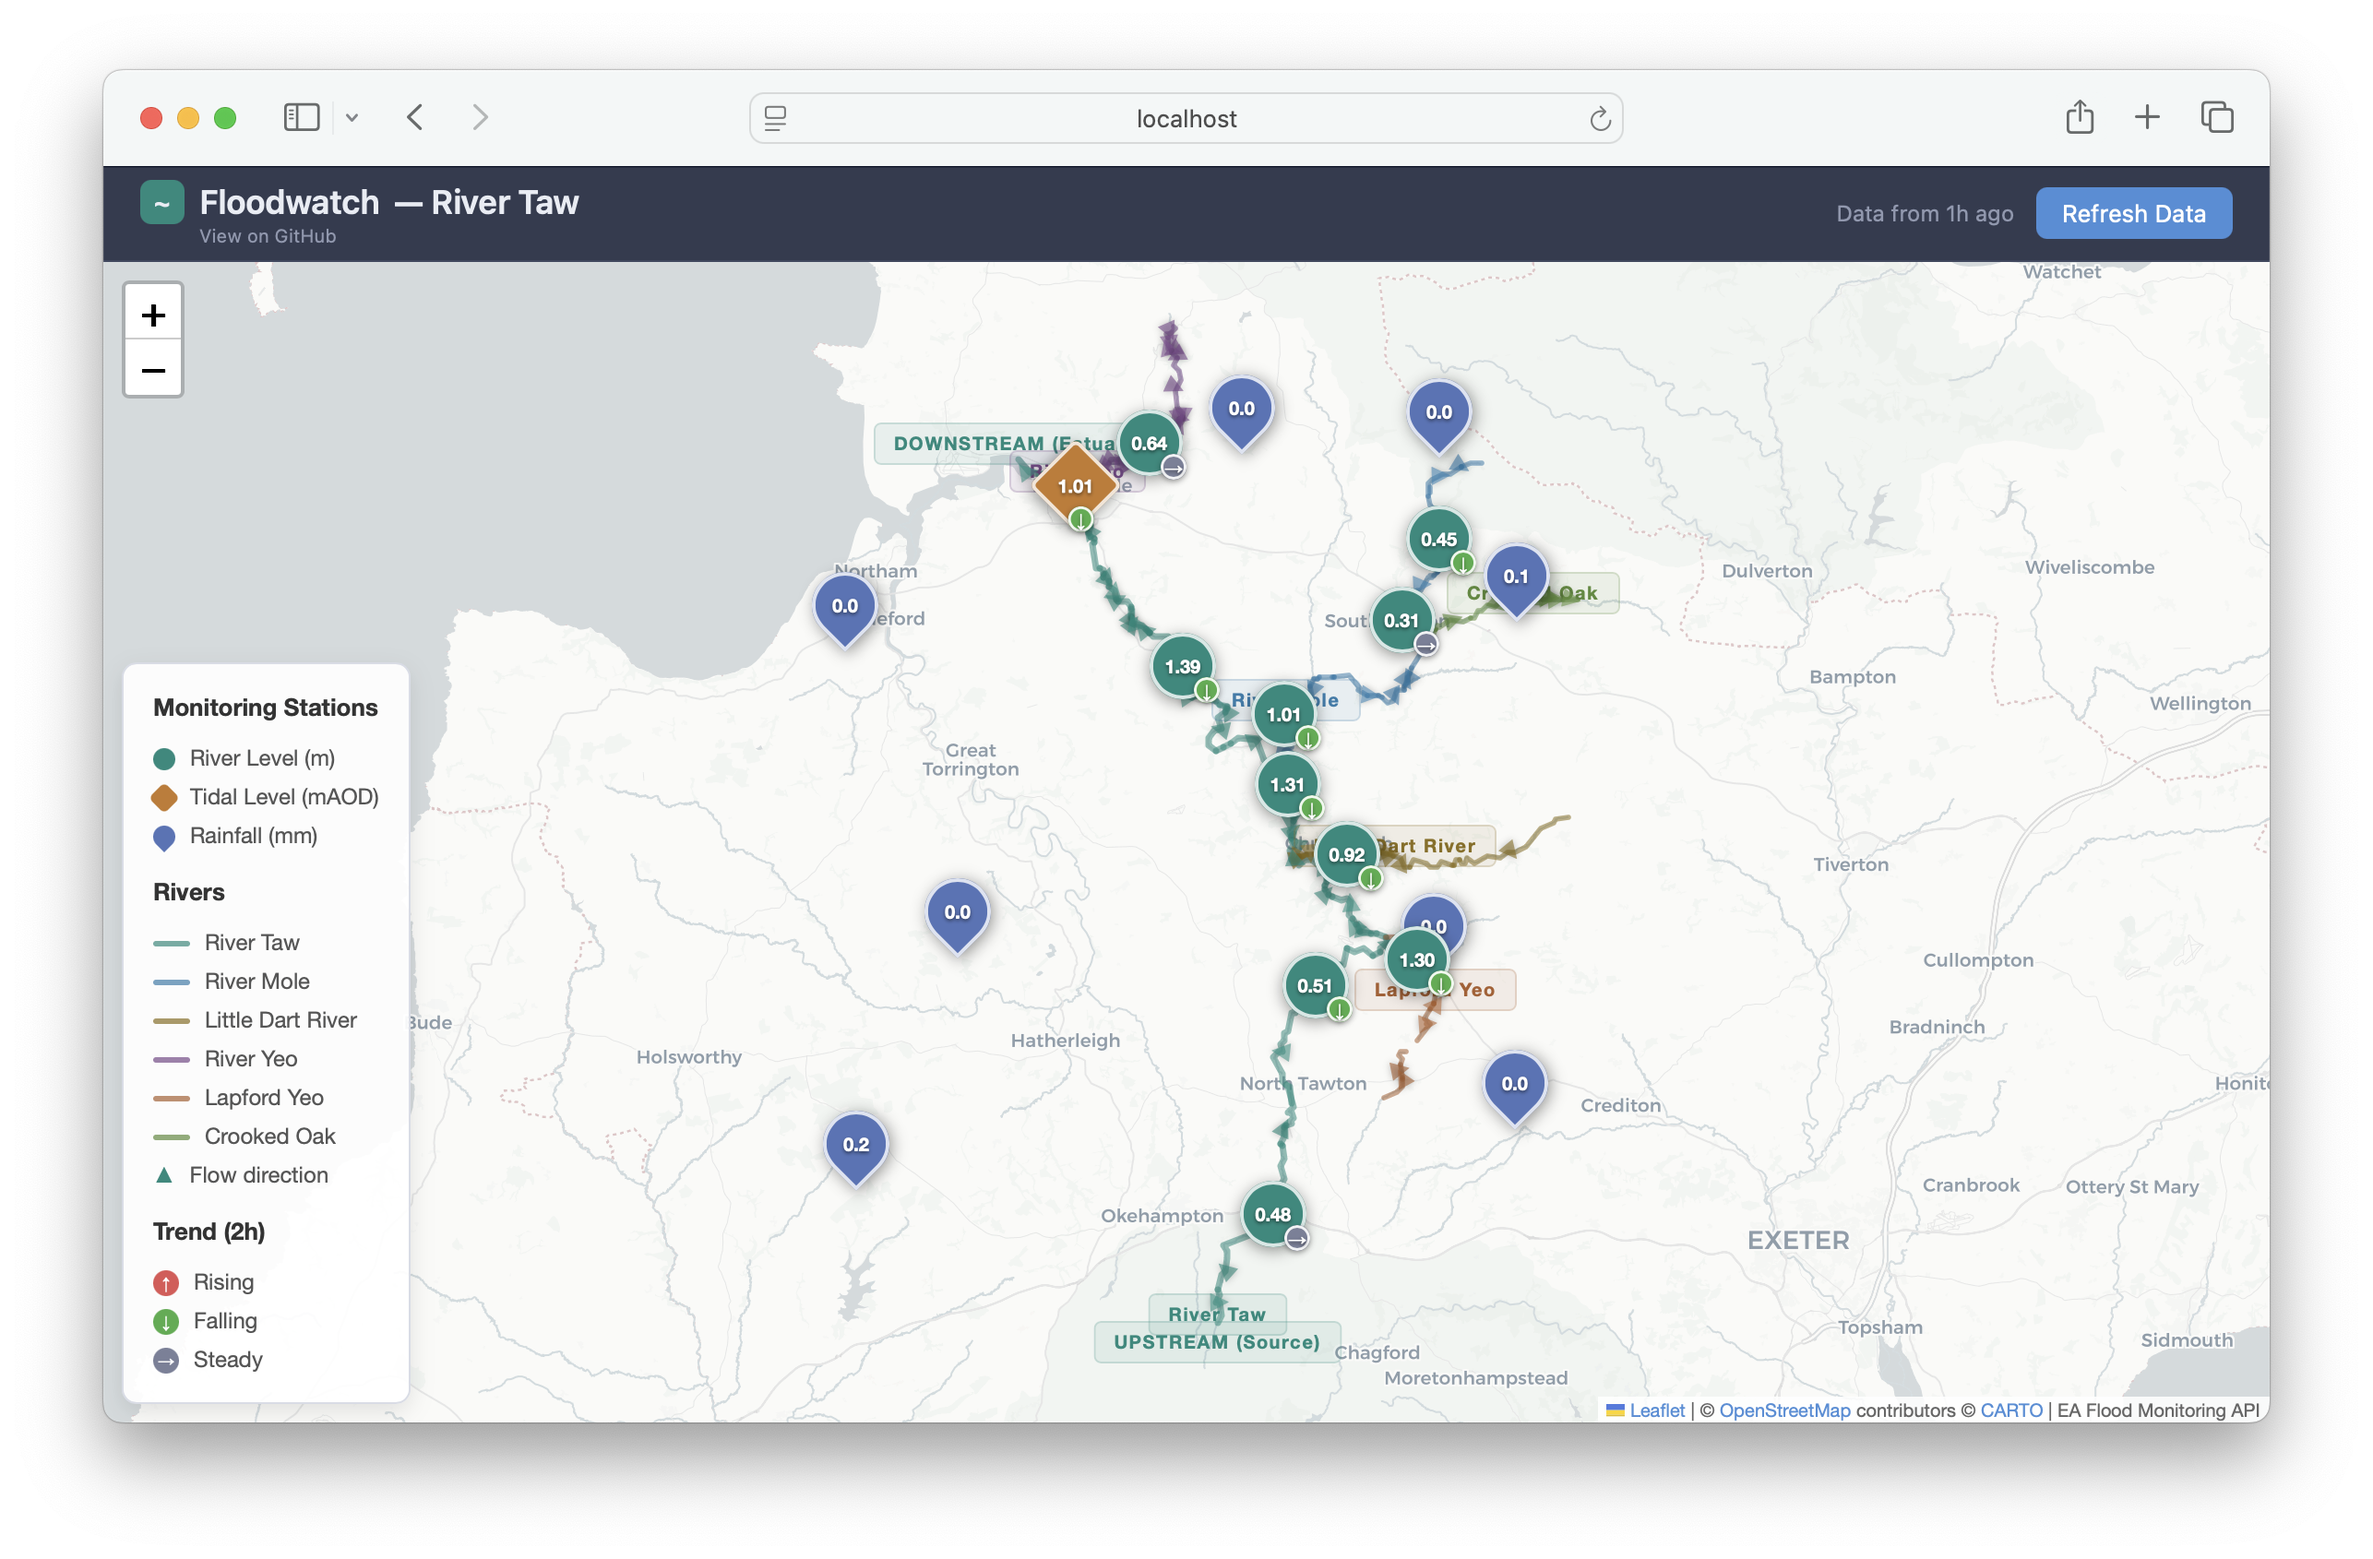
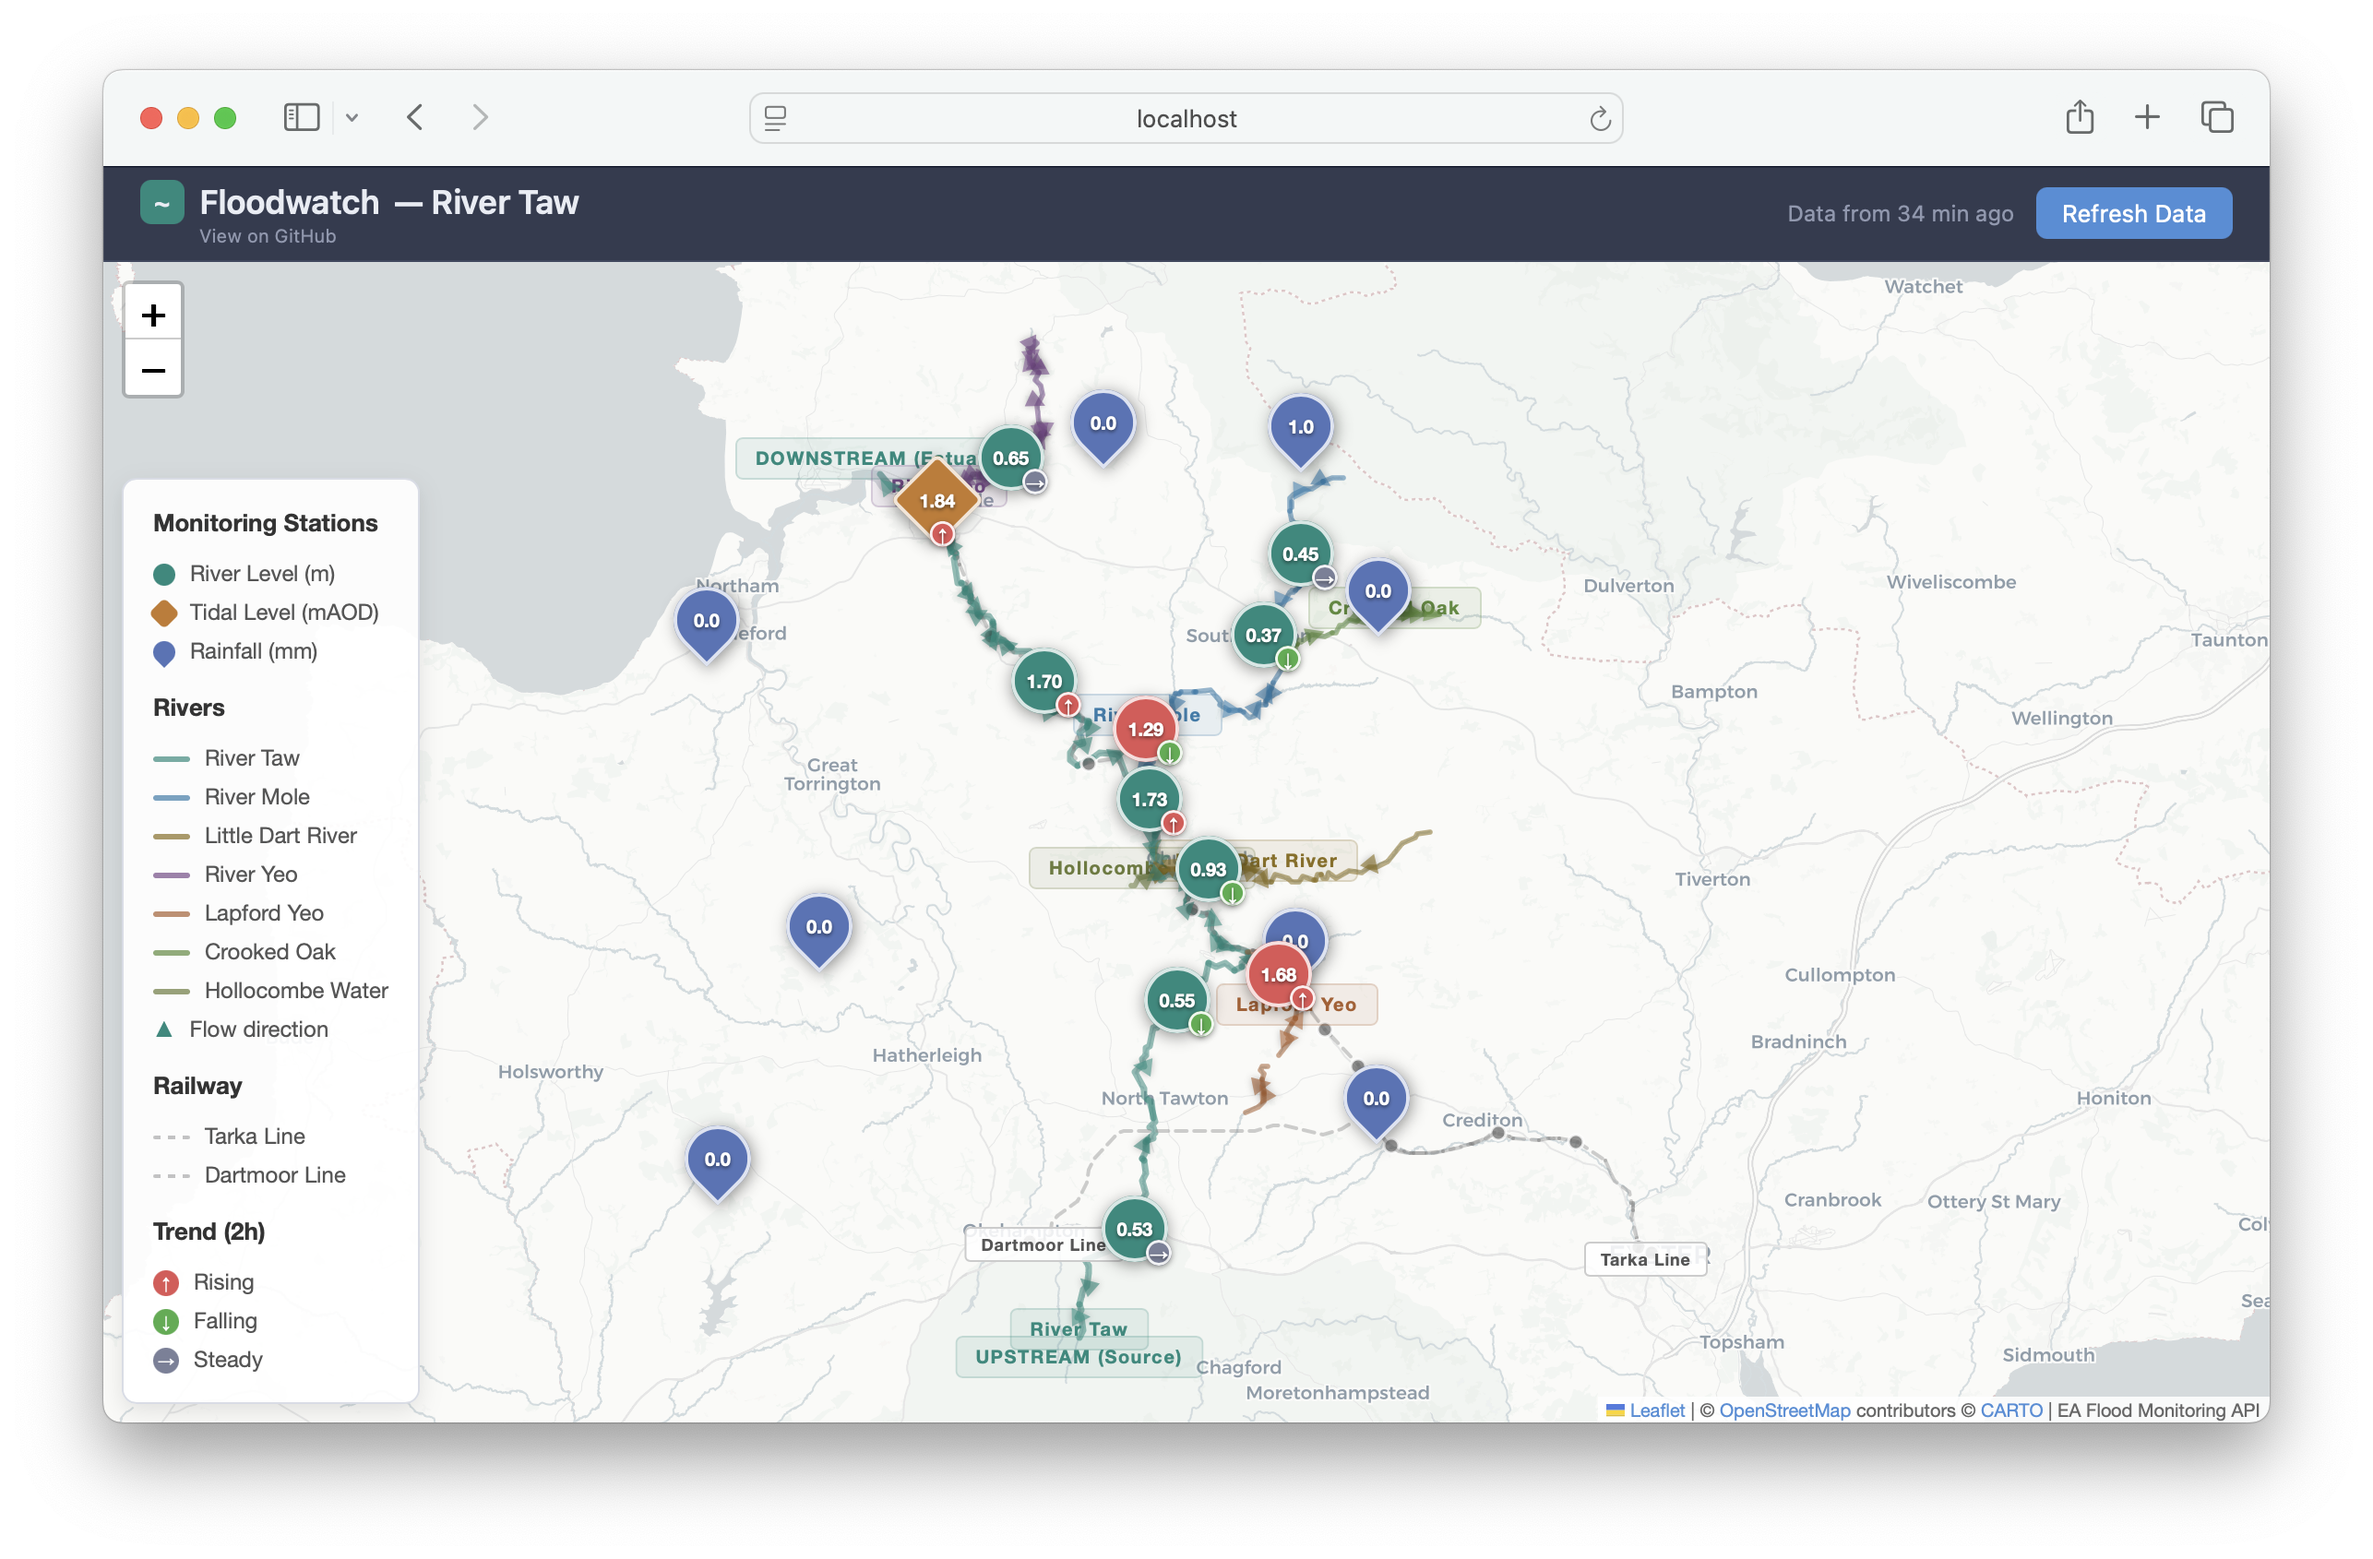
Added Dartmoor line and Hollocombe Water tributary

diff --git a/index.html b/index.html
@@ -974,6 +974,7 @@
         { file: 'river_yeo.geojson', name: 'River Yeo', color: '#7a4a8a', weight: 2.8, maxArrows: 12 },
         { file: 'river_lapford_yeo.geojson', name: 'Lapford Yeo', color: '#ab5e2e', weight: 2.8, maxArrows: 8 },
         { file: 'river_crooked_oak.geojson', name: 'Crooked Oak', color: '#5a8a3a', weight: 2.8, maxArrows: 8 },
+        { file: 'river_hollacombe_water.geojson', name: 'Hollocombe Water', color: '#6a7a3a', weight: 2.8, maxArrows: 6 },
     ];
 
     function loadRiverOverlay() {
@@ -1118,6 +1119,63 @@
     }
 
     // ============================================================
+    // Dartmoor Line railway overlay
+    // ============================================================
+    function loadDartmoorLine() {
+        // Load track (only the unique section from Coleford Junction to Okehampton)
+        fetch(DATA_BASE + 'dartmoor_line.geojson')
+            .then(r => r.json())
+            .then(geojson => {
+                L.geoJSON(geojson, {
+                    style: {
+                        color: '#888',
+                        weight: 2,
+                        opacity: 0.4,
+                        dashArray: '6,4',
+                        lineCap: 'round'
+                    }
+                }).addTo(map);
+            })
+            .catch(e => console.warn('Could not load Dartmoor Line track:', e));
+
+        // Load station (Okehampton only — shared stations already on Tarka Line)
+        fetch(DATA_BASE + 'dartmoor_stations.geojson')
+            .then(r => r.json())
+            .then(geojson => {
+                L.geoJSON(geojson, {
+                    pointToLayer: (feature, latlng) => {
+                        return L.circleMarker(latlng, {
+                            radius: 4,
+                            fillColor: '#666',
+                            color: '#fff',
+                            weight: 1.5,
+                            opacity: 0.8,
+                            fillOpacity: 0.7
+                        });
+                    },
+                    onEachFeature: (feature, layer) => {
+                        layer.bindTooltip(feature.properties.name, {
+                            permanent: false,
+                            direction: 'top',
+                            offset: [0, -6],
+                            className: 'tarka-tooltip'
+                        });
+                    }
+                }).addTo(map);
+            })
+            .catch(e => console.warn('Could not load Dartmoor Line stations:', e));
+
+        // Label near Okehampton
+        const dartmoorIcon = L.divIcon({
+            html: `<div style="background:rgba(255,255,255,0.85); color:#555; padding:2px 8px; border-radius:3px; font-size:9px; font-weight:600; letter-spacing:0.5px; border:1px solid #ccc; white-space:nowrap; width:max-content; transform:translateX(-50%);">Dartmoor Line</div>`,
+            className: '',
+            iconSize: [0, 0],
+            iconAnchor: [0, 8]
+        });
+        L.marker([50.7324, -3.985], { icon: dartmoorIcon, interactive: false }).addTo(map);
+    }
+
+    // ============================================================
     // Legend
     // ============================================================
     function addLegend() {
@@ -1138,9 +1196,11 @@
                 <div class="legend-item"><div class="legend-line" style="background:#7a4a8a; opacity:0.7;"></div> River Yeo</div>
                 <div class="legend-item"><div class="legend-line" style="background:#ab5e2e; opacity:0.7;"></div> Lapford Yeo</div>
                 <div class="legend-item"><div class="legend-line" style="background:#5a8a3a; opacity:0.7;"></div> Crooked Oak</div>
+                <div class="legend-item"><div class="legend-line" style="background:#6a7a3a; opacity:0.7;"></div> Hollocombe Water</div>
                 <div class="legend-item"><div style="color:#1a8a7d; font-size:12px;">&#x25B2;</div> Flow direction</div>
                 <h4 style="margin-top:8px;">Railway</h4>
-                <div class="legend-item"><div class="legend-line" style="background:#888; opacity:0.5; border-style:dashed;"></div> Tarka Line</div>
+                <div class="legend-item"><div class="legend-line" style="background:none; border-top:2px dashed #888; height:0; opacity:0.5;"></div> Tarka Line</div>
+                <div class="legend-item"><div class="legend-line" style="background:none; border-top:2px dashed #888; height:0; opacity:0.5;"></div> Dartmoor Line</div>
                 <h4 style="margin-top:8px;">Trend (2h)</h4>
                 <div class="legend-item"><div style="width:14px;height:14px;border-radius:50%;background:#e05555;display:flex;align-items:center;justify-content:center;font-size:9px;color:white;font-weight:700;">↑</div> Rising</div>
                 <div class="legend-item"><div style="width:14px;height:14px;border-radius:50%;background:#4aad4a;display:flex;align-items:center;justify-content:center;font-size:9px;color:white;font-weight:700;">↓</div> Falling</div>
@@ -1822,6 +1882,7 @@
         initMap();
         loadRiverOverlay();
         loadTarkaLine();
+        loadDartmoorLine();
         await loadAllData();
         loadFromLocalStorage(); // merge any cached data on top of CSVs
         createMarkers();

diff --git a/README.md b/README.md
@@ -124,7 +124,7 @@ If there isn't enough recent data (fewer than 2 readings in either time window),
 
 ### River Overlays
 
-Six rivers are displayed as coloured GeoJSON overlays with flow direction arrows:
+Seven rivers are displayed as coloured GeoJSON overlays with flow direction arrows:
 
 | River | Colour | Role |
 |-------|--------|------|
@@ -134,10 +134,22 @@ Six rivers are displayed as coloured GeoJSON overlays with flow direction arrows
 | River Yeo | Purple (#7a4a8a) | Tributary, joins near Barnstaple |
 | Lapford Yeo | Burnt orange (#ab5e2e) | Tributary, joins the Taw near Lapford |
 | Crooked Oak | Green (#5a8a3a) | Tributary, flows into the River Mole near South Molton |
+| Hollocombe Water | Olive (#6a7a3a) | Tributary, joins the Taw between Eggesford and Kings Nympton |
 
 Flow arrows (triangles) point downstream. The River Taw also has "UPSTREAM (Source)" and "DOWNSTREAM (Estuary)" labels. All rivers have a name label at their midpoint.
 
 The GeoJSON data comes from OpenStreetMap via the Overpass API. OSM waterway ways are digitised in flow direction (source to mouth), so the arrows follow the natural direction of the data.
+
+### Railway Overlays
+
+Two railway lines are displayed as dashed grey overlays with station markers:
+
+| Line | Route | Stations |
+|------|-------|----------|
+| Tarka Line | Exeter Central to Barnstaple | 14 stations (Exeter Central, Exeter St Davids, Newton St Cyres, Crediton, Yeoford, Copplestone, Morchard Road, Lapford, Eggesford, Kings Nympton, Portsmouth Arms, Umberleigh, Chapelton, Barnstaple) |
+| Dartmoor Line | Coleford Junction to Okehampton | 1 station (Okehampton) — shared stations shown on the Tarka Line |
+
+The Tarka and Dartmoor lines share track from Exeter to Coleford Junction (near Yeoford). Only the unique Dartmoor Line section from the junction to Okehampton is drawn separately to avoid duplication. Station markers show the station name on hover. Track data comes from OpenStreetMap (OSM relations 275887 and 276920).
 
 ### Map Tiles
 
@@ -198,6 +210,10 @@ On phones, the legend collapses to a single "Legend ▸" button in the top-right
 | Lapford | 50151 | 50.858, -3.811 |
 
 ### Crooked Oak (tributary, flows into the River Mole)
+
+No monitoring stations on this river.
+
+### Hollocombe Water (tributary, joins the Taw between Eggesford and Kings Nympton)
 
 No monitoring stations on this river.
 
@@ -313,12 +329,17 @@ data/
   rainfall_50194.csv
   rainfall_E82120.csv
   rainfall_47158.csv
-  river_taw.geojson                     # River geometry (6 files)
+  river_taw.geojson                     # River geometry (7 files)
   river_mole.geojson
   river_little_dart.geojson
   river_yeo.geojson
   river_lapford_yeo.geojson
   river_crooked_oak.geojson
+  river_hollacombe_water.geojson
+  tarka_line.geojson                    # Railway track geometry (2 files)
+  dartmoor_line.geojson
+  tarka_stations.geojson                # Railway station points (2 files)
+  dartmoor_stations.geojson
 ```
 
 ### CSV Format
@@ -638,18 +659,19 @@ In the App Platform dashboard:
 
 #### Data Transfer Estimate
 
-Each page load serves the HTML, 19 CSV data files, and 4 GeoJSON river overlays. CDN libraries (Leaflet, Chart.js, PapaParse) are loaded from external CDNs and don't count towards App Platform transfer.
+Each page load serves the HTML, 19 CSV data files, 7 GeoJSON river overlays, and 4 railway GeoJSON files (2 track + 2 station). CDN libraries (Leaflet, Chart.js, PapaParse) are loaded from external CDNs and don't count towards App Platform transfer.
 
 | Asset | Raw size | Gzipped (approx) |
 |-------|----------|-------------------|
-| `index.html` | 61 KB | ~14 KB |
+| `index.html` | 65 KB | ~15 KB |
 | 19 CSV files | 2.7 MB | ~500 KB |
-| 6 GeoJSON files | 240 KB | ~65 KB |
-| **Total per visit** | **~3 MB** | **~580 KB** |
+| 7 river GeoJSON files | 245 KB | ~65 KB |
+| 4 railway GeoJSON files | 80 KB | ~20 KB |
+| **Total per visit** | **~3.1 MB** | **~600 KB** |
 
-App Platform serves static files with gzip compression, so actual transfer is roughly 580 KB per visit. CSV requests include a cache-busting query parameter (`?t=...`) to ensure the browser always fetches fresh data, which means the CDN may not cache CSVs between visits — but at ~500 KB this has negligible impact on transfer.
+App Platform serves static files with gzip compression, so actual transfer is roughly 600 KB per visit. CSV requests include a cache-busting query parameter (`?t=...`) to ensure the browser always fetches fresh data, which means the CDN may not cache CSVs between visits — but at ~500 KB this has negligible impact on transfer.
 
-**Free tier: 1 GiB/month outbound transfer.** That allows approximately **1,750 page loads/month** — around 55 visits/day. For a personal or small-team dashboard this is plenty. If you share the link more widely and exceed the limit, upgrading to a $3/mo static site plan removes the cap.
+**Free tier: 1 GiB/month outbound transfer.** That allows approximately **1,700 page loads/month** — around 55 visits/day. For a personal or small-team dashboard this is plenty. If you share the link more widely and exceed the limit, upgrading to a $3/mo static site plan removes the cap.
 
 The hourly GitHub Actions deploys trigger rebuilds on App Platform, but build traffic is internal and not counted as outbound transfer.
 
